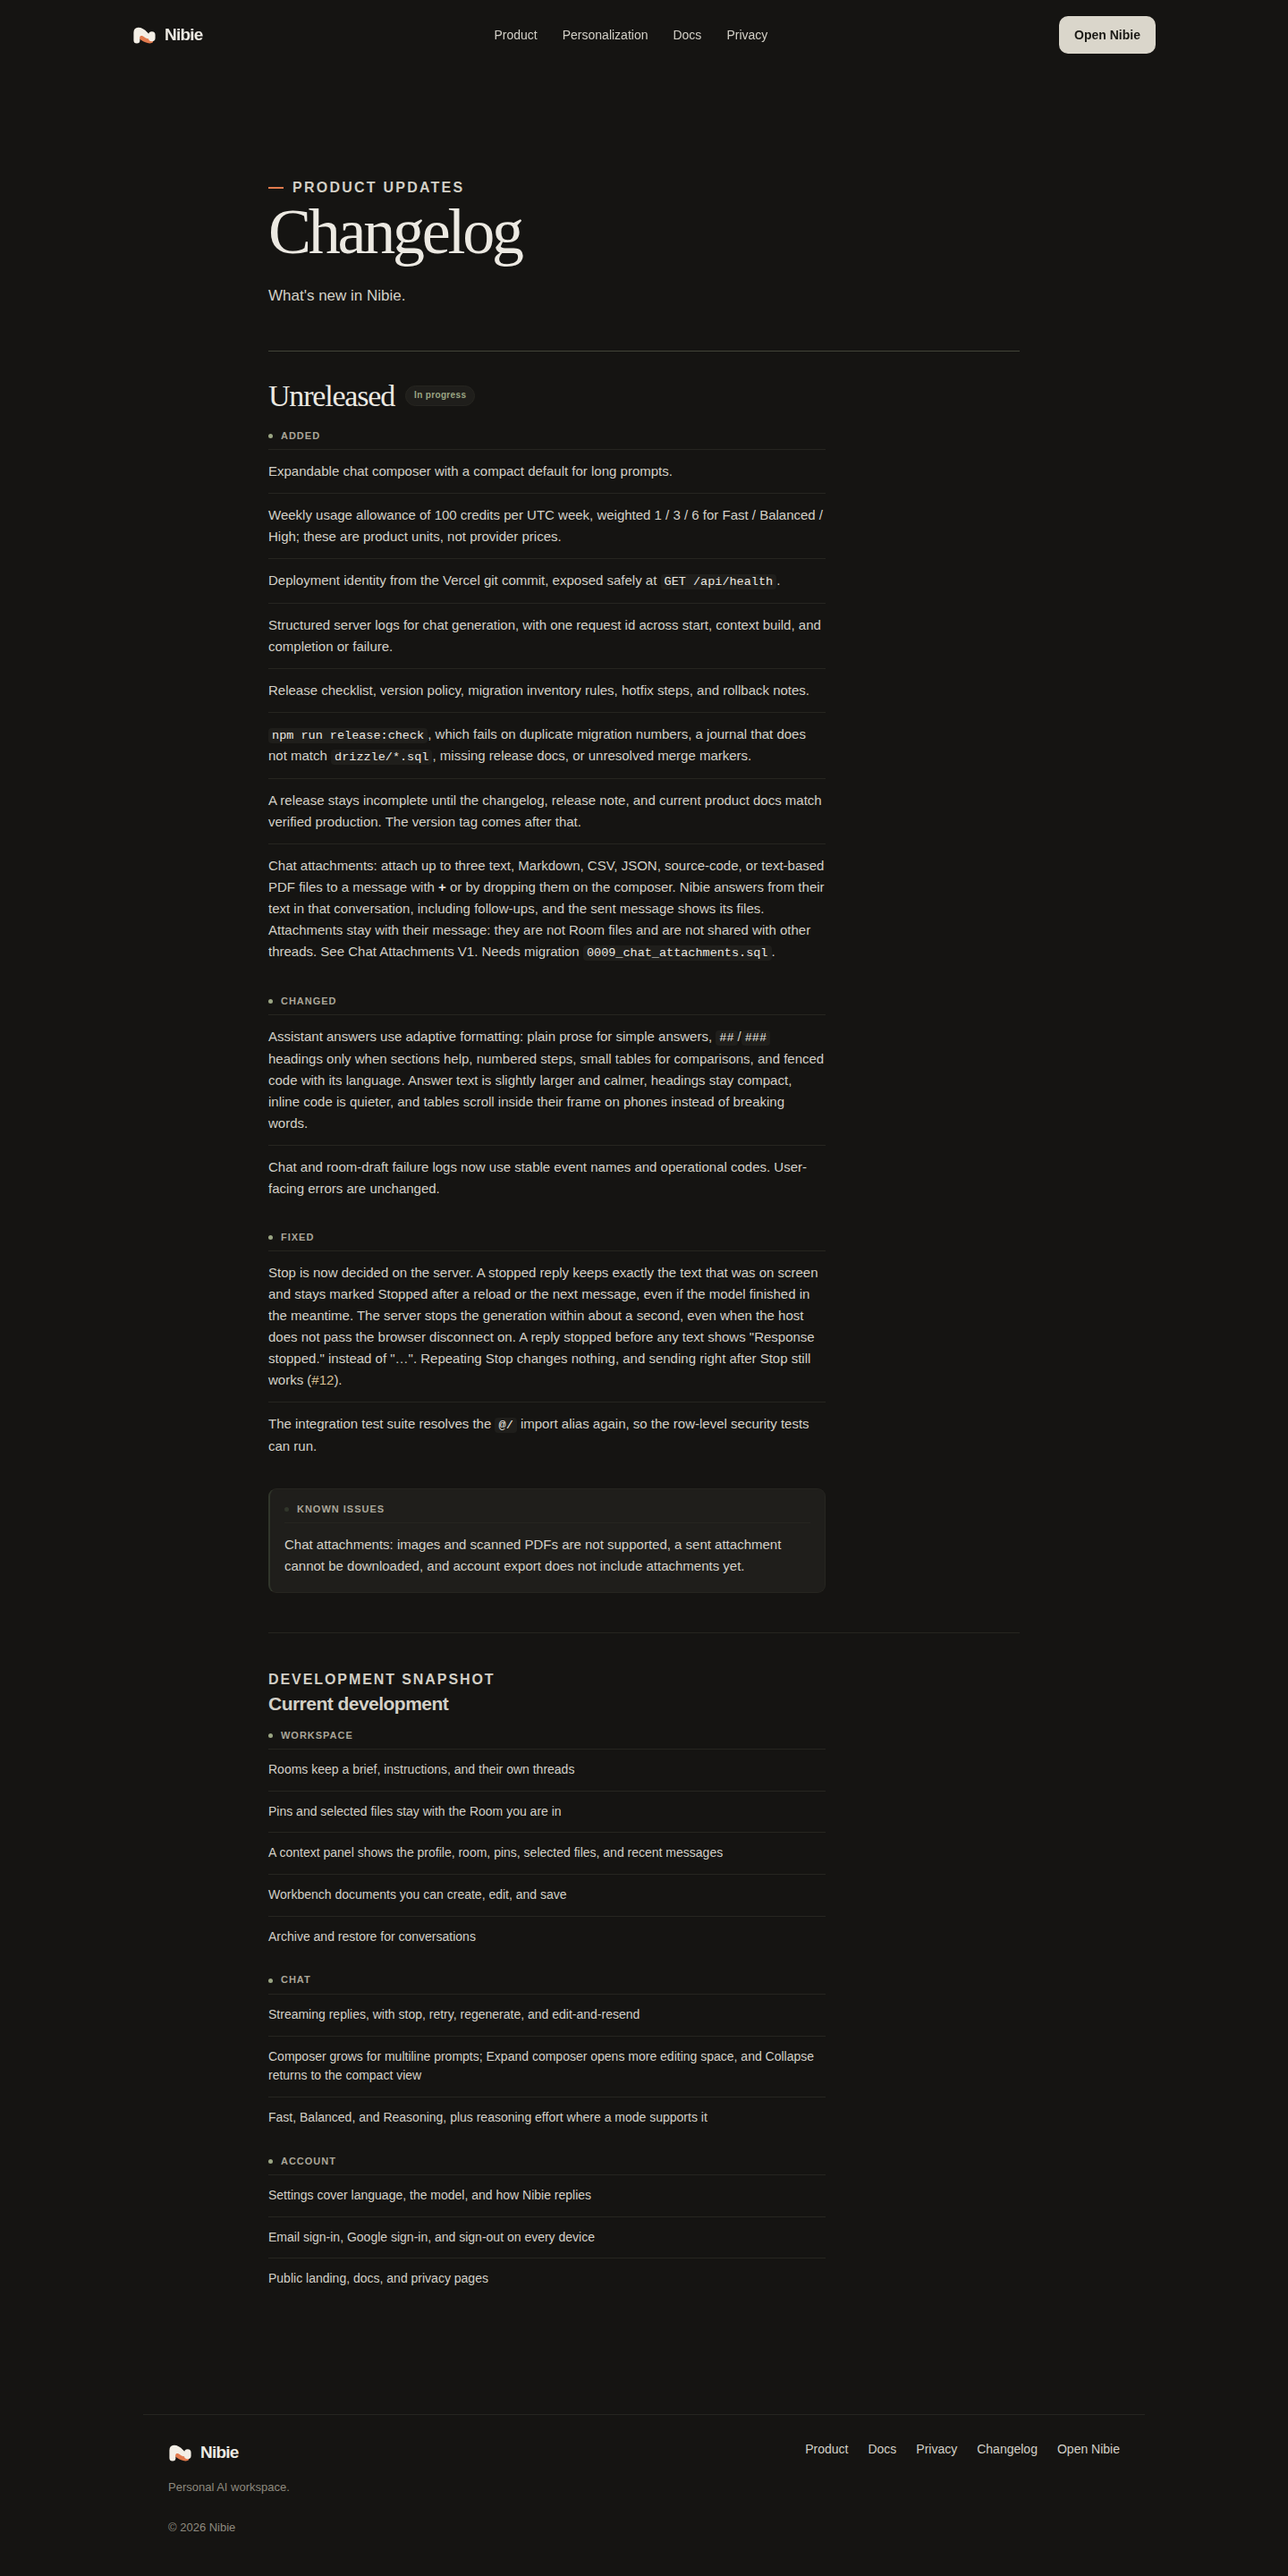
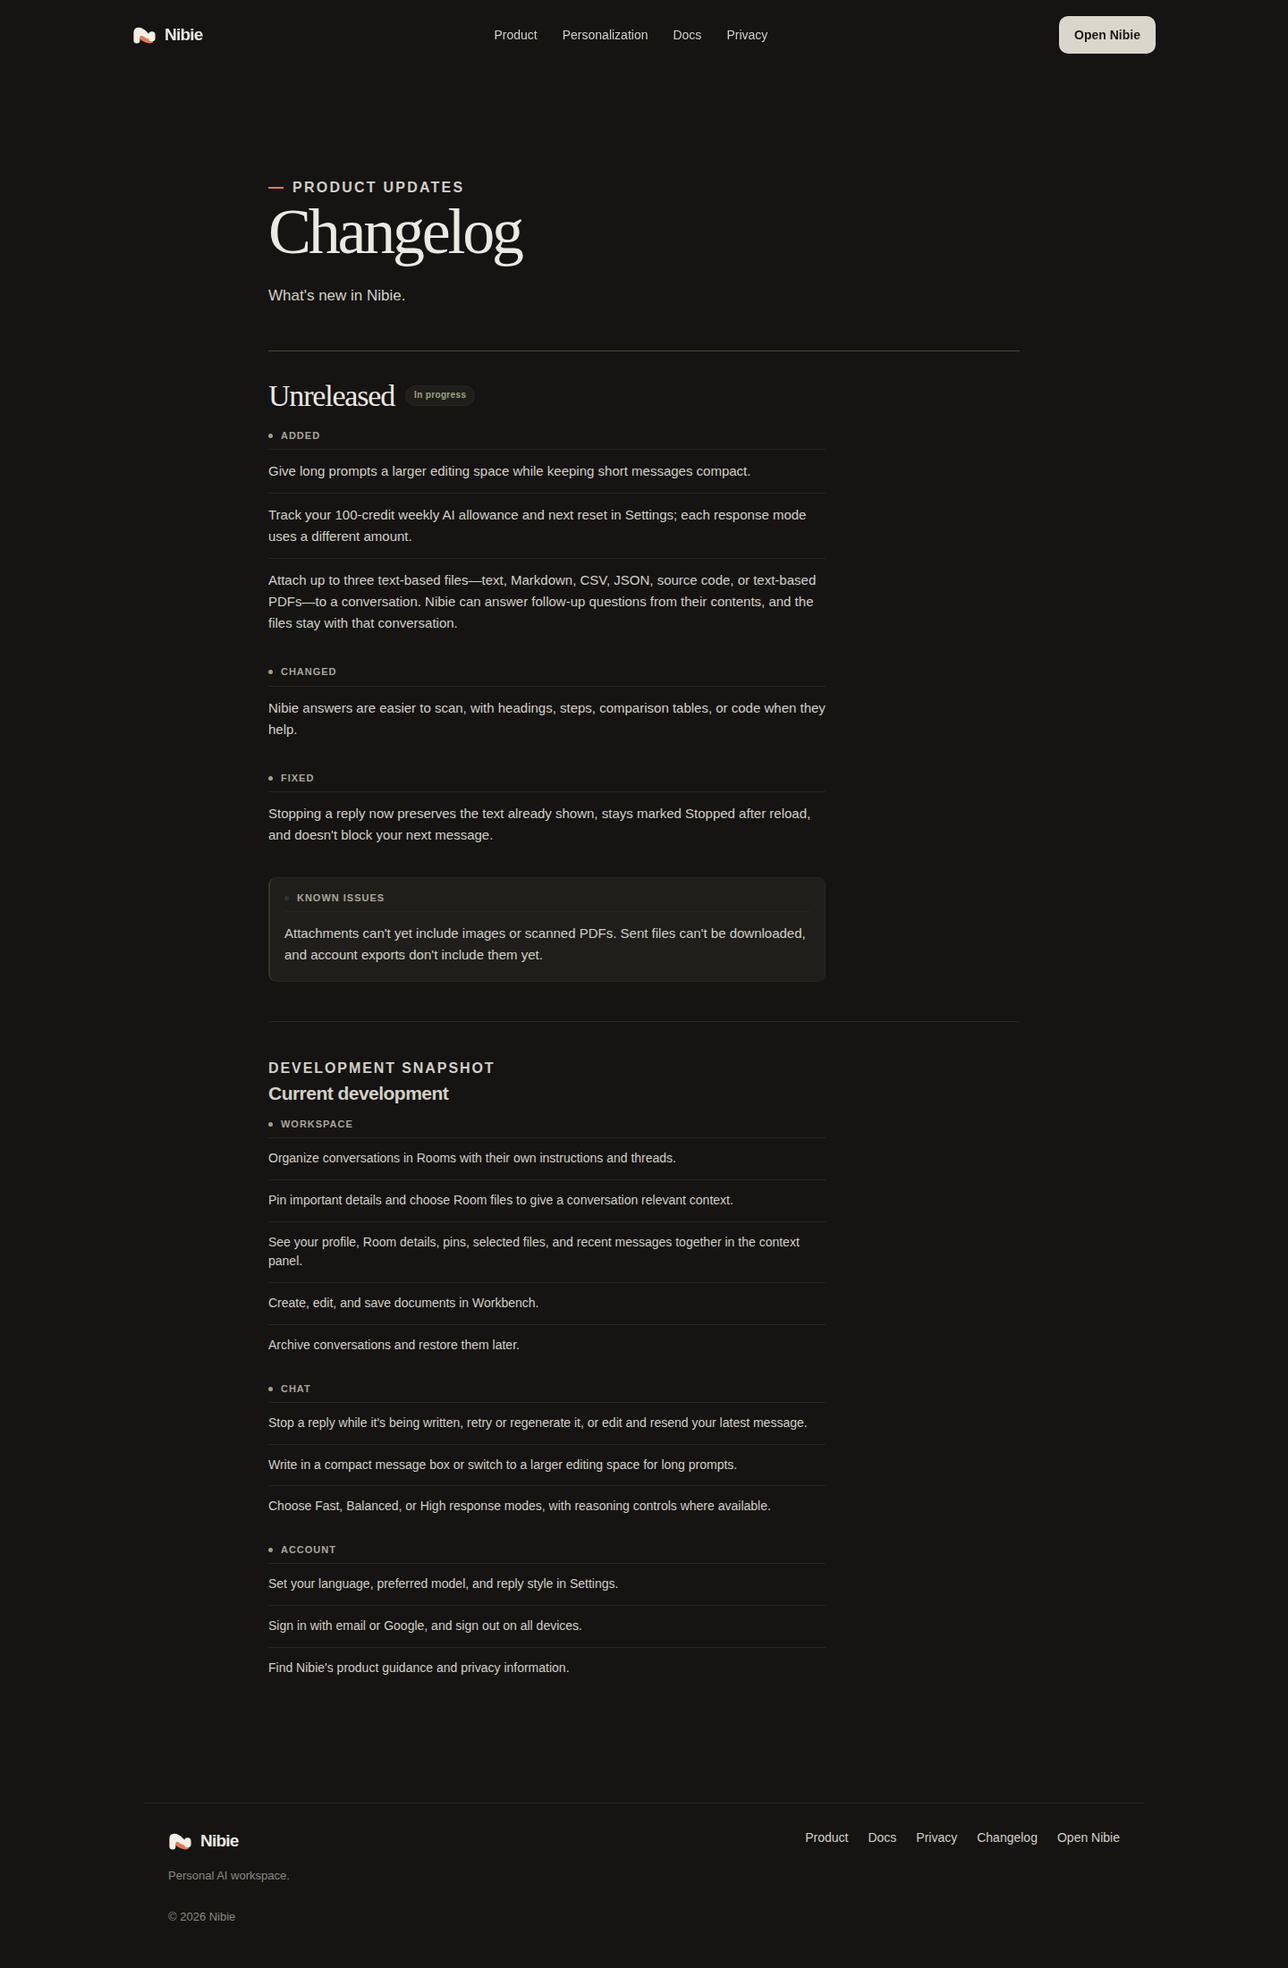
[verified] docs(changelog): make public updates user-facing

diff --git a/tests/unit/public-changelog-content.test.ts b/tests/unit/public-changelog-content.test.ts
@@ -1,0 +1,53 @@
+import { readFileSync } from "node:fs";
+import { join } from "node:path";
+import { describe, expect, it } from "vitest";
+import { parseChangelog } from "../../lib/changelog";
+
+const root = process.cwd();
+const publicDocument = parseChangelog(readFileSync(join(root, "CHANGELOG.md"), "utf8"));
+const publicItems = publicDocument.entries.flatMap((entry) => entry.groups.flatMap((group) => group.items));
+const publicCopy = publicItems.join("\n");
+
+describe("public changelog copy", () => {
+  it("prioritizes changes users can notice", () => {
+    expect(publicCopy).toMatch(/Attach up to three text-based files/i);
+    expect(publicCopy).toMatch(/weekly.*allowance|weekly.*usage.*settings/i);
+    expect(publicCopy).toMatch(/stopping a reply.*preserv/i);
+    expect(publicCopy).toMatch(/answers are easier to scan/i);
+    expect(publicCopy).toMatch(/organize conversations in Rooms/i);
+    expect(publicCopy).toMatch(/message box/i);
+  });
+
+  it("keeps implementation and release-engineering details out of public entries", () => {
+    const internalDetails = [
+      /\bGET \/api\/health\b/i,
+      /\bVercel\b/i,
+      /\b\d{4}_[a-z\d_-]+\.sql\b/i,
+      /\b(?:migration|RPC|row-level security)\b/i,
+      /\b(?:npm run|pnpm run)\b/i,
+      /\b(?:release:check|migration inventory|version policy|release checklist|rollback notes|hotfix steps)\b/i,
+      /\b(?:structured server logs?|request ids?|requestId|operational codes?|observability)\b/i,
+      /\b(?:integration test suite|import alias|repository mechanics|composer)\b/i,
+      /\b(?:git commit|production SHA|branch name|merge marker|repository|deployment identity)\b/i,
+      /\bCI\b/i,
+      /github\.com\/habiibullahm\/nibie-code\/issues/i,
+    ];
+
+    for (const pattern of internalDetails) expect(publicCopy).not.toMatch(pattern);
+  });
+
+  it("keeps technical release details in the internal docs", () => {
+    const releaseChecklist = readFileSync(join(root, "docs/releases/V1_RELEASE_CHECKLIST.md"), "utf8");
+    const releaseGuide = readFileSync(join(root, "docs/releases/README.md"), "utf8");
+    const observability = readFileSync(join(root, "docs/engineering/OBSERVABILITY.md"), "utf8");
+    const attachments = readFileSync(join(root, "docs/feature/attachments/v1.md"), "utf8");
+    const weeklyUsage = readFileSync(join(root, "docs/feature/weekly-usage/v1.md"), "utf8");
+
+    expect(releaseGuide).toContain("npm run release:check");
+    expect(releaseGuide).toContain("Version policy");
+    expect(releaseChecklist).toContain("technical changes, migrations, verification");
+    expect(observability).toContain("requestId");
+    expect(attachments).toContain("drizzle/0009_chat_attachments.sql");
+    expect(weeklyUsage).toContain("100 credits per UTC week");
+  });
+});

diff --git a/tests/e2e/changelog.spec.ts b/tests/e2e/changelog.spec.ts
@@ -15,11 +15,13 @@ test("public changelog retains semantic release hierarchy and existing metadata"
   await expect(page.getByText("Development snapshot", { exact: true })).toBeVisible();
   await expect(page.getByRole("heading", { level: 2, name: "Current development" })).toBeVisible();
   await expect(page.getByRole("heading", { level: 3, name: "Added" })).toBeVisible();
-  const attachmentNote = page.locator(".changelog-entry--unreleased li").filter({ hasText: "attach up to three text" });
-  await expect(attachmentNote).toContainText("Chat Attachments V1");
+  const attachmentNote = page.locator(".changelog-entry--unreleased li").filter({ hasText: "Attach up to three text-based files" });
+  await expect(attachmentNote).toContainText("conversation");
+  await expect(attachmentNote).not.toContainText("migration");
+  await expect(attachmentNote).not.toContainText("0009");
   await expect(attachmentNote).not.toContainText("**");
   await expect(attachmentNote).not.toContainText("](");
-  await expect(attachmentNote.locator("strong")).toHaveText("+");
+  await expect(page.locator(".changelog-column")).not.toContainText(/GET \/api\/health|Vercel|release:check|request id|integration test suite/i);
   await expect(page).toHaveTitle("Nibie Changelog");
   await expect(page.locator("meta[name='description']")).toHaveAttribute("content", "Product updates, improvements, and fixes for Nibie.");
   await expect(page.getByRole("link", { name: "Changelog", exact: true }).last()).toHaveAttribute("aria-current", "page");

diff --git a/CHANGELOG.md b/CHANGELOG.md
@@ -1,4 +1,4 @@
-<!-- Newest entry first. Use a version heading only for a release that actually shipped. Each shipped entry includes the date, Added, Changed, Fixed, Removed or Deprecated when relevant, Known issues, and important user-visible behavior. -->
+<!-- Newest entry first. Use a version heading only for a release that actually shipped. Keep public entries concise and user-facing: visible capabilities, meaningful UX improvements, reliability fixes, and important limitations. Keep implementation and release-engineering details in the release checklist, release notes, or relevant feature and engineering docs. -->
 
 # Changelog
 
@@ -8,47 +8,40 @@ What's new in Nibie.
 
 ### Added
 
-- Expandable chat composer with a compact default for long prompts.
-- Weekly usage allowance of 100 credits per UTC week, weighted 1 / 3 / 6 for Fast / Balanced / High; these are product units, not provider prices.
-- Deployment identity from the Vercel git commit, exposed safely at `GET /api/health`.
-- Structured server logs for chat generation, with one request id across start, context build, and completion or failure.
-- Release checklist, version policy, migration inventory rules, hotfix steps, and rollback notes.
-- `npm run release:check`, which fails on duplicate migration numbers, a journal that does not match `drizzle/*.sql`, missing release docs, or unresolved merge markers.
-- A release stays incomplete until the changelog, release note, and current product docs match verified production. The version tag comes after that.
-- Chat attachments: attach up to three text, Markdown, CSV, JSON, source-code, or text-based PDF files to a message with **+** or by dropping them on the composer. Nibie answers from their text in that conversation, including follow-ups, and the sent message shows its files. Attachments stay with their message: they are not Room files and are not shared with other threads. See [Chat Attachments V1](docs/feature/attachments/v1.md). Needs migration `0009_chat_attachments.sql`.
+- Give long prompts a larger editing space while keeping short messages compact.
+- Track your 100-credit weekly AI allowance and next reset in Settings; each response mode uses a different amount.
+- Attach up to three text-based files—text, Markdown, CSV, JSON, source code, or text-based PDFs—to a conversation. Nibie can answer follow-up questions from their contents, and the files stay with that conversation.
 
 ### Changed
 
-- Assistant answers use adaptive formatting: plain prose for simple answers, `##`/`###` headings only when sections help, numbered steps, small tables for comparisons, and fenced code with its language. Answer text is slightly larger and calmer, headings stay compact, inline code is quieter, and tables scroll inside their frame on phones instead of breaking words.
-- Chat and room-draft failure logs now use stable event names and operational codes. User-facing errors are unchanged.
+- Nibie answers are easier to scan, with headings, steps, comparison tables, or code when they help.
 
 ### Fixed
 
-- Stop is now decided on the server. A stopped reply keeps exactly the text that was on screen and stays marked Stopped after a reload or the next message, even if the model finished in the meantime. The server stops the generation within about a second, even when the host does not pass the browser disconnect on. A reply stopped before any text shows "Response stopped." instead of "…". Repeating Stop changes nothing, and sending right after Stop still works ([#12](https://github.com/habiibullahm/nibie-code/issues/12)).
-- The integration test suite resolves the `@/` import alias again, so the row-level security tests can run.
+- Stopping a reply now preserves the text already shown, stays marked Stopped after reload, and doesn't block your next message.
 
 ### Known issues
 
-- Chat attachments: images and scanned PDFs are not supported, a sent attachment cannot be downloaded, and account export does not include attachments yet.
+- Attachments can't yet include images or scanned PDFs. Sent files can't be downloaded, and account exports don't include them yet.
 
 ## Current development
 
 ### Workspace
 
-- Rooms keep a brief, instructions, and their own threads
-- Pins and selected files stay with the Room you are in
-- A context panel shows the profile, room, pins, selected files, and recent messages
-- Workbench documents you can create, edit, and save
-- Archive and restore for conversations
+- Organize conversations in Rooms with their own instructions and threads.
+- Pin important details and choose Room files to give a conversation relevant context.
+- See your profile, Room details, pins, selected files, and recent messages together in the context panel.
+- Create, edit, and save documents in Workbench.
+- Archive conversations and restore them later.
 
 ### Chat
 
-- Streaming replies, with stop, retry, regenerate, and edit-and-resend
-- Composer grows for multiline prompts; Expand composer opens more editing space, and Collapse returns to the compact view
-- Fast, Balanced, and Reasoning, plus reasoning effort where a mode supports it
+- Stop a reply while it's being written, retry or regenerate it, or edit and resend your latest message.
+- Write in a compact message box or switch to a larger editing space for long prompts.
+- Choose Fast, Balanced, or High response modes, with reasoning controls where available.
 
 ### Account
 
-- Settings cover language, the model, and how Nibie replies
-- Email sign-in, Google sign-in, and sign-out on every device
-- Public landing, docs, and privacy pages
+- Set your language, preferred model, and reply style in Settings.
+- Sign in with email or Google, and sign out on all devices.
+- Find Nibie's product guidance and privacy information.

diff --git a/docs/releases/V1_RELEASE_CHECKLIST.md b/docs/releases/V1_RELEASE_CHECKLIST.md
@@ -81,8 +81,8 @@ If `main` cannot fast-forward to `RC_SHA`, stop. Do not merge the staging branch
 
 Use merged `main` and the verified production deployment as the source of truth. Document only what that SHA shipped. Do not write API keys, credentials, secret values, or private tokens. Environment variables may be named only.
 
-15. Update `CHANGELOG.md` with the version, release date, Added, Changed, Fixed, Removed or Deprecated when relevant, Known issues, and important user-visible behavior.
-16. Copy [V1_RELEASE_TEMPLATE.md](V1_RELEASE_TEMPLATE.md) to `docs/releases/vX.Y.Z.md`. Record the production SHA, production URL, what shipped, user-visible changes, technical changes, migrations, verification, known issues, deferred work, and the next milestone.
+15. Update the public `CHANGELOG.md` with the version and date, concise user-facing Added, Changed, Fixed, Removed, or Deprecated highlights when relevant, and important user-visible limitations. Keep implementation details, migration names, release commands/process, observability/logging, and implementation-only test details out of the public changelog.
+16. Copy [V1_RELEASE_TEMPLATE.md](V1_RELEASE_TEMPLATE.md) to `docs/releases/vX.Y.Z.md`. Record the production SHA, production URL, what shipped, user-visible and technical changes, migrations, verification, known issues, deferred work, and the next milestone. Use the release note for engineering and release-process details omitted from the public changelog.
 17. Review the product docs this release touches. Correct or remove outdated behavior, architecture, UX, Room and Thread behavior, model modes, provider config, context rules, safety, persistence, navigation, limitations, known issues, and deferred work.
 18. Confirm known issues in the changelog and the release note still happen in production. Remove issues this release fixed.
 

diff --git a/docs/evidence/changelog-refinement/README.md b/docs/evidence/changelog-refinement/README.md
@@ -5,4 +5,4 @@ Captured locally from the PR worktree based on `feature/staging-v1`.
 - `changelog-*-dark.png` and `changelog-*-light.png`: public `/changelog` at 1440px desktop and 390px mobile.
 - `whats-new-empty-*.png`: in-app Help → What’s new at desktop and mobile. The staging `CHANGELOG.md` currently has no shipped release, so the truthful empty state is shown; no version or date is fabricated.
 
-A temporary, uncommitted release fixture was used to exercise the version/date/highlights/New UI and read-state behavior. `CHANGELOG.md` was restored afterward and is not part of this change.
+Earlier UI QA used an uncommitted release fixture to exercise version/date/highlights/New/read-state behavior. That fixture is not included; the screenshots here show the actual empty state with the current `CHANGELOG.md`.
